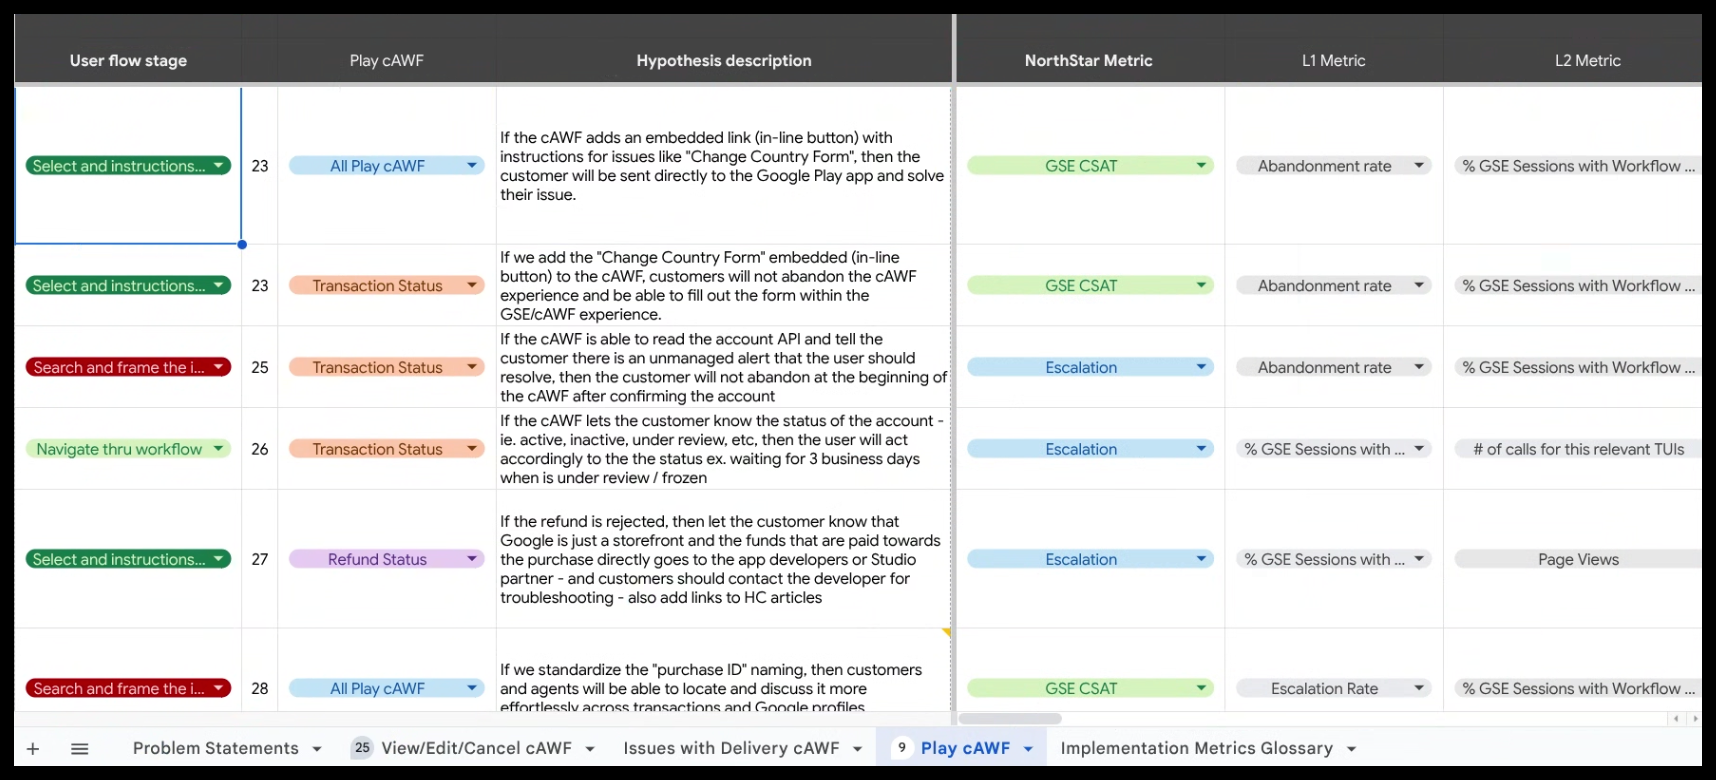
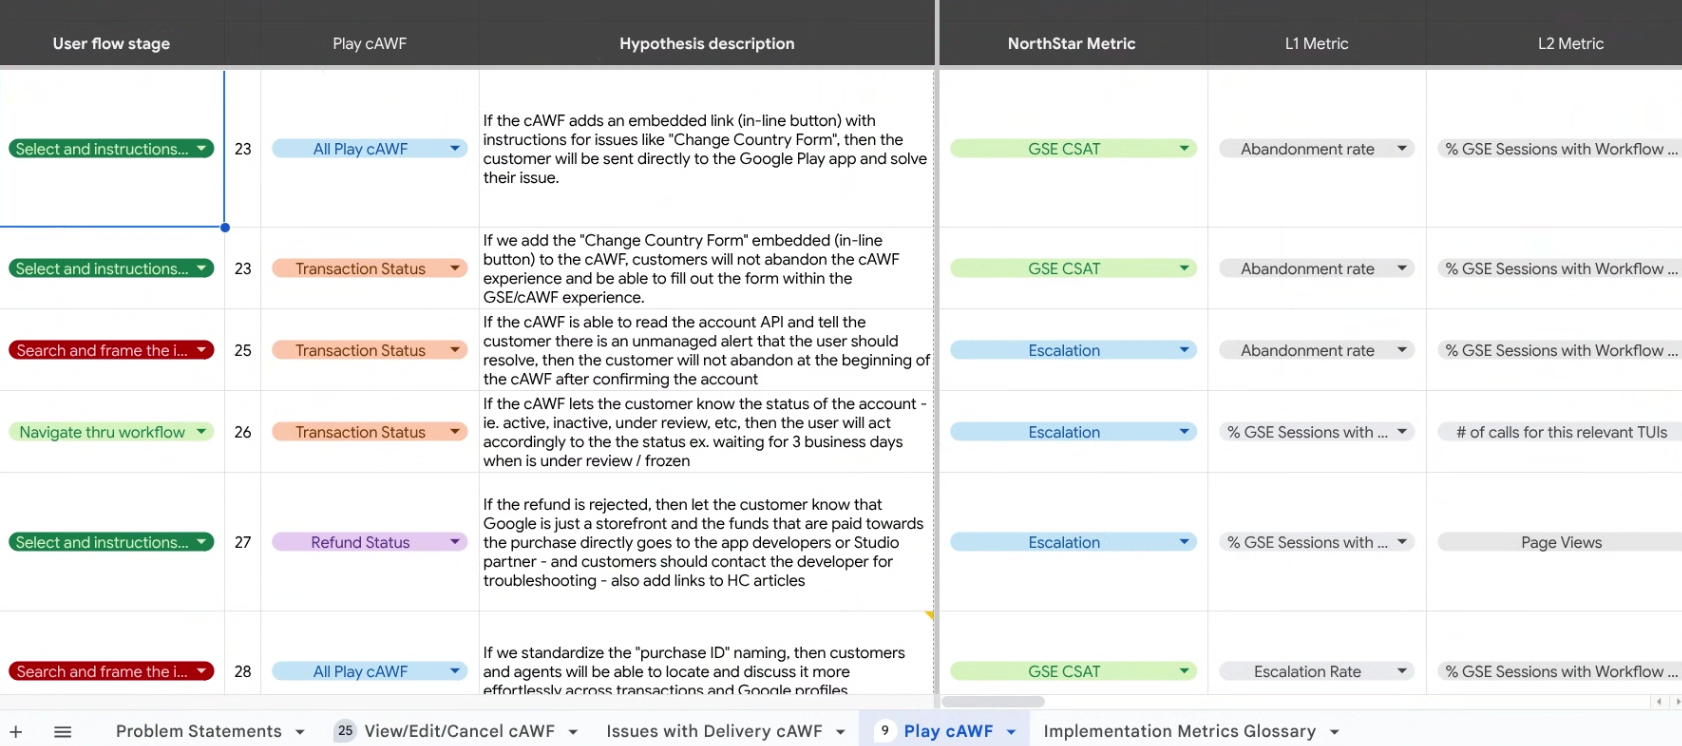
CAWF: clean hero frame, pointer cursor, reorder results, move timeline to My Role
- Re-crop black-matte images tighter (no residual black frame); hero keeps subtle grey CSS border
- Lightbox cursor → pointer (hand) instead of zoom lens
- Results: quick wins first, then opportunity sizing
- Move research timeline to My Role (shows activities/sequencing); remove repetitive opportunity mapping image

Changed region(s): [[0.0, 0.0, 1.0, 1.0], [0.8966, 0.7091, 0.9584, 0.7399], [0.5874, 0.4625, 0.6492, 0.4933]]

diff --git a/cawf.html b/cawf.html
@@ -71,10 +71,10 @@
     .body-text + .body-text { margin-top: 16px; }
 
     /* LIGHTBOX */
-    .zoomable { cursor: zoom-in; }
+    .zoomable { cursor: pointer; }
     .lightbox { position: fixed; inset: 0; z-index: 1000; background: rgba(20,20,19,0.94); display: none; overflow: auto; }
     .lightbox.open { display: block; }
-    .lightbox img { display: block; margin: 56px auto; width: 94%; max-width: 2400px; height: auto; cursor: zoom-out; }
+    .lightbox img { display: block; margin: 56px auto; width: 94%; max-width: 2400px; height: auto; cursor: pointer; }
     .lightbox-close { position: fixed; top: 20px; right: 24px; z-index: 1001; width: 40px; height: 40px; border: 1px solid rgba(255,255,255,0.3); background: rgba(20,20,19,0.6); color: #fff; font-size: 1.25rem; line-height: 1; border-radius: 50%; cursor: pointer; display: flex; align-items: center; justify-content: center; }
     .lightbox-close:hover { background: rgba(255,255,255,0.15); }
     .lightbox-hint { position: fixed; bottom: 20px; left: 50%; transform: translateX(-50%); z-index: 1001; font-family: 'JetBrains Mono', monospace; font-size: 0.625rem; letter-spacing: 0.08em; text-transform: uppercase; color: rgba(255,255,255,0.55); }
@@ -382,8 +382,8 @@
         </div>
 
         <div class="screen-full">
-          <img src="./img/cawf/OpportunityMapping.png" alt="Opportunity mapping storyline — structuring the research narrative across iterations"/>
-          <p class="screen-caption">Framing · Opportunity mapping storyline · Structuring the research narrative</p>
+          <img src="./img/cawf/CAWFsRoadmap.png" alt="Delivery Issues and Trade-ins cAWF timeline — activities sequenced across two parallel tracks"/>
+          <p class="screen-caption">Planning · Research timeline I built · Activities across two parallel tracks</p>
         </div>
       </div>
     </div>
@@ -506,12 +506,6 @@
           </div>
         </div>
 
-        <!-- Opportunity sizing -->
-        <div class="screen-full">
-          <img src="./img/cawf/CAWFOpportunitySize.png" alt="Opportunity sizing — combined CSAT and dollar opportunity per cAWF user flow"/>
-          <p class="screen-caption">Quantification · Opportunity sizing · CSAT &amp; dollar impact per flow</p>
-        </div>
-
         <!-- Quick wins -->
         <div class="screen-grid">
           <div class="screen-fig">
@@ -524,10 +518,10 @@
           </div>
         </div>
 
-        <!-- Delivery roadmap -->
+        <!-- Opportunity sizing -->
         <div class="screen-full">
-          <img src="./img/cawf/CAWFsRoadmap.png" alt="Delivery Issues and Trade-ins cAWF research timeline across two parallel tracks"/>
-          <p class="screen-caption">Roadmap · Two parallel research tracks · Discovery → experiment plan</p>
+          <img src="./img/cawf/CAWFOpportunitySize.png" alt="Opportunity sizing — combined CSAT and dollar opportunity per cAWF user flow"/>
+          <p class="screen-caption">Quantification · Opportunity sizing · CSAT &amp; dollar impact per flow</p>
         </div>
       </div>
     </div>
